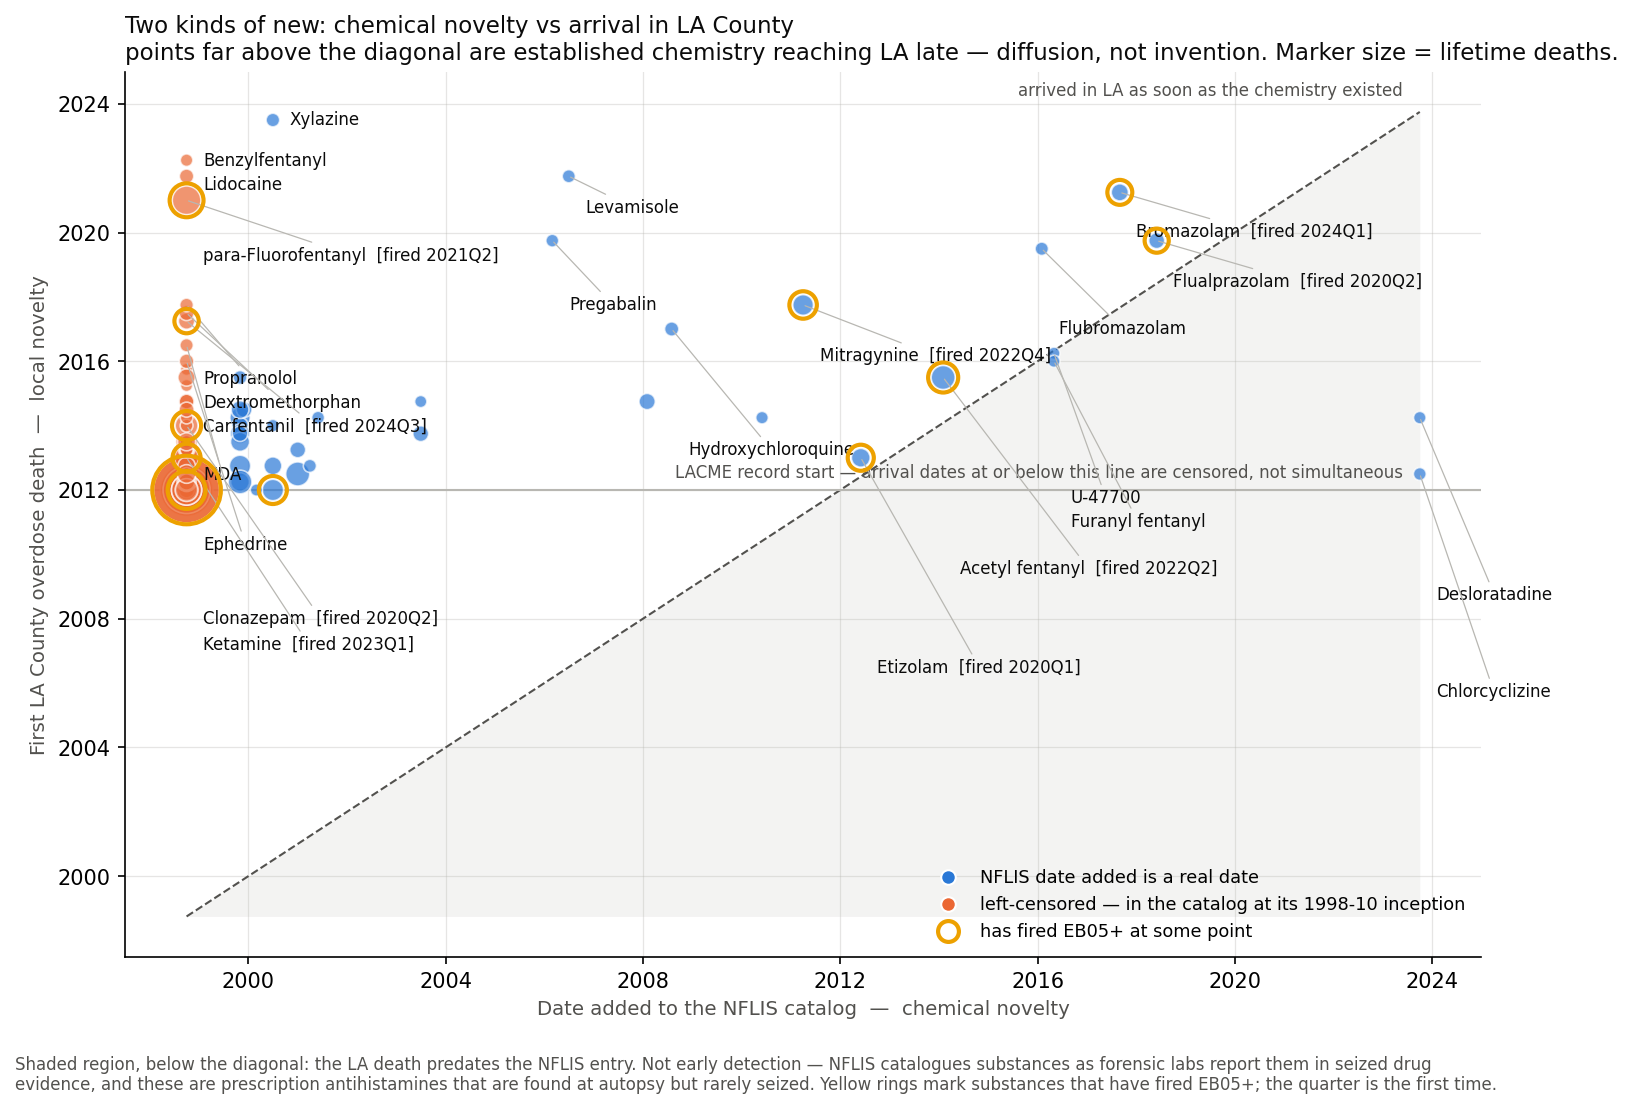
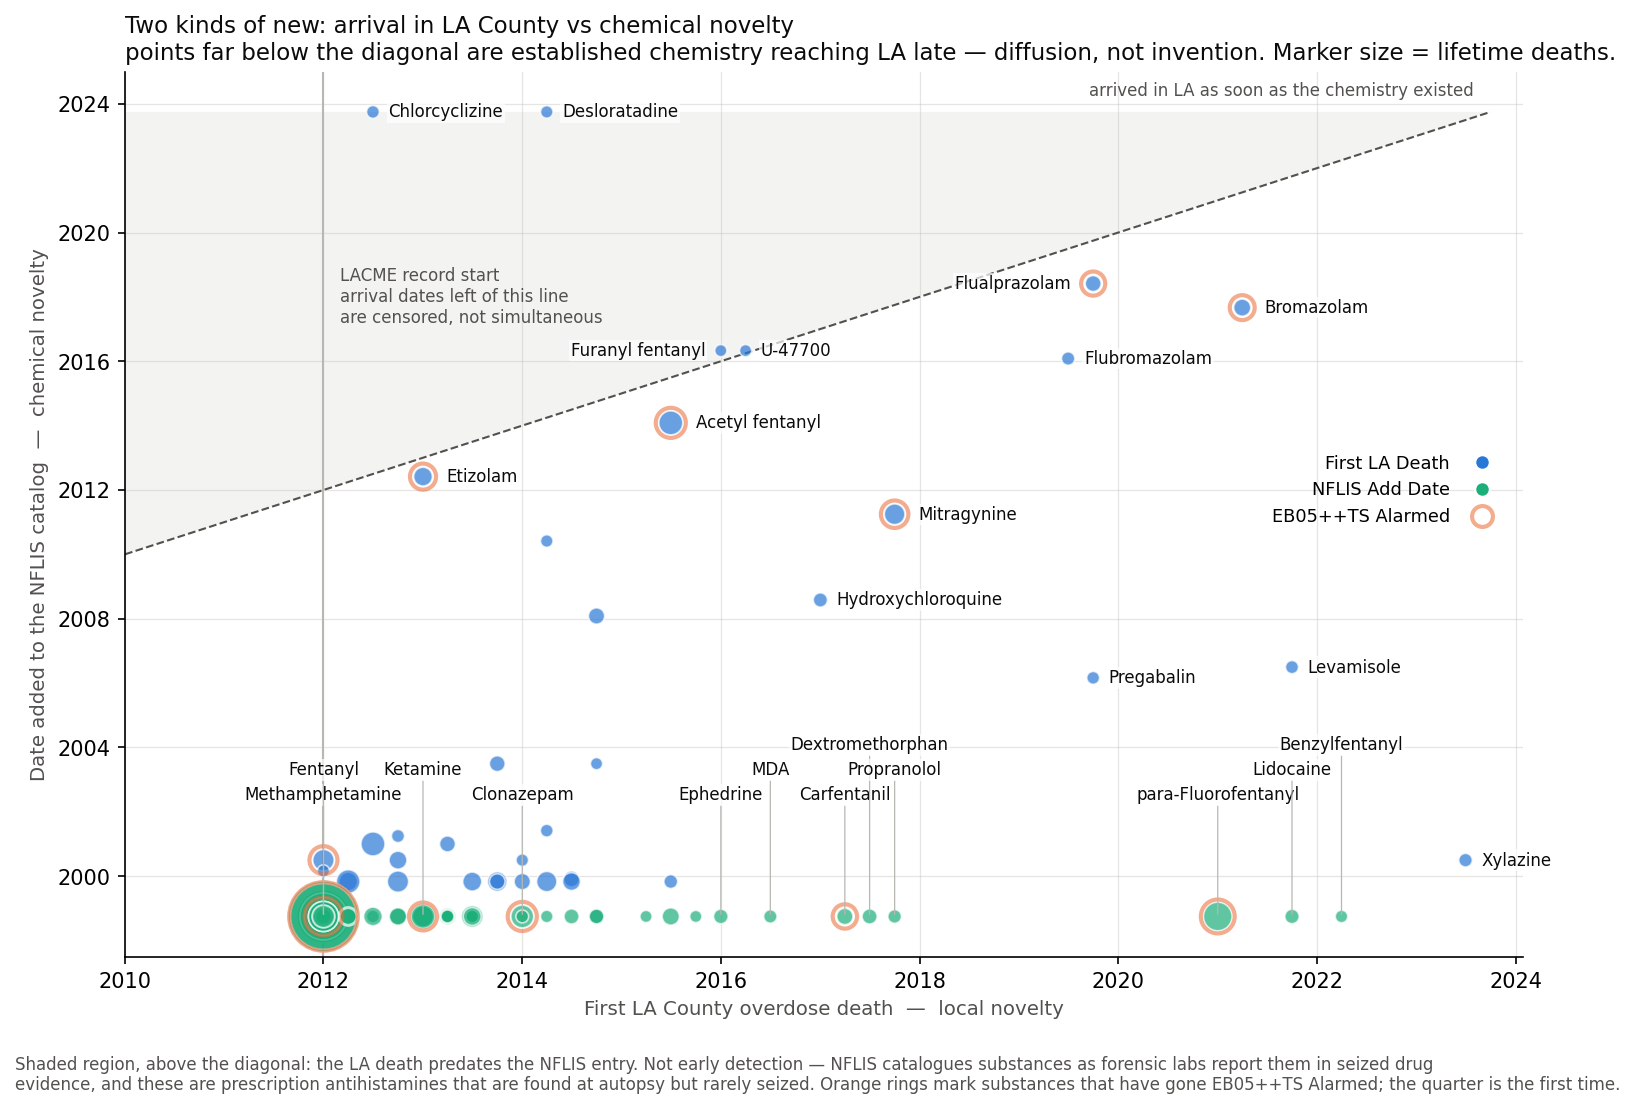
feat(trends): rework the novelty_vs_growth figure -- chronological x-axis, decluttered labels
Swap the axes so LA arrival (first_seen) runs chronologically along x, with
NFLIS chemical-novelty on y. Rebuild the label layout from scratch: aqua
(left-censored) substances all share one floor row, so their labels now
stack straight up with just enough height variance to clear their
neighbors, while the sparser real-date labels use a left/right search that
checks both box overlap and line-of-sight so a leader line can't cut
through an unrelated label. Move the legend inside the plot, concise and
color-corrected (EB05++TS alarm ring back to orange, left-censored fill to
aqua), anchored at a fixed data point instead of fighting tight_layout.

diff --git a/emerging/analysis/trends.py b/emerging/analysis/trends.py
@@ -73,6 +73,7 @@ import numpy as np
 import pandas as pd
 import typer
 from matplotlib.colors import PowerNorm
+from matplotlib.transforms import Bbox
 from scipy.optimize import minimize
 from scipy.special import gammaln
 from scipy.stats import chi2, gamma as gamma_dist
@@ -85,7 +86,7 @@ from emerging.core.concentration import (concentration_weight,
                                          sweep_concentration)
 from emerging.ingest.extract import MENTIONS_PATH, load_cohort
 from emerging.paths import results_dir
-from emerging.viz import BLUE, INK, INK_2, MUTED, ORANGE, SEQ, YELLOW
+from emerging.viz import AQUA, BLUE, INK, INK_2, MUTED, ORANGE, SEQ, YELLOW
 
 app = typer.Typer(add_completion=False)
 
@@ -2132,10 +2133,10 @@ def plot(
     fig, ax = plt.subplots(figsize=(10.5, 7))
     for censored, color, label in [
         (False, BLUE, "NFLIS date added is a real date"),
-        (True, ORANGE, "left-censored — in the catalog at its 1998-10 inception"),
+        (True, AQUA, "left-censored — in the catalog at its 1998-10 inception"),
     ]:
         g = sc[sc["date_added_censored"].fillna(False) == censored]
-        ax.scatter(g["date_added"], g["first_seen"],
+        ax.scatter(g["first_seen"], g["date_added"],
                    s=14 + 9 * np.sqrt(g["n_total"]), c=color, alpha=0.70,
                    edgecolors="white", linewidths=0.8, label=label, zorder=3)
 
@@ -2146,79 +2147,242 @@ def plot(
     ever = set(hist.index) if hist is not None else set()
     fired = sc[sc.index.isin(ever)]
     if len(fired):
-        ax.scatter(fired["date_added"], fired["first_seen"],
+        ax.scatter(fired["first_seen"], fired["date_added"],
                    s=90 + 9 * np.sqrt(fired["n_total"]), facecolors="none",
-                   edgecolors=YELLOW, linewidths=2.0, zorder=4,
+                   edgecolors=ORANGE, linewidths=2.0, alpha=0.55, zorder=4,
                    label="has fired EB05+")
+
+    # Zoom past the dead 1998-2010 stretch (no arrivals are recorded there
+    # anyway) so the crowded post-2012 cluster gets more horizontal room.
+    # Set before any pixel-space measurement below, since transData needs to
+    # reflect the final view for the label de-collision to be accurate.
+    ax.set_xlim(left=mdates.date2num(pd.Timestamp("2010-01-01")))
 
     lo = min(sc["date_added"].min(), sc["first_seen"].min())
     hi = max(sc["date_added"].max(), sc["first_seen"].max())
     ax.plot([lo, hi], [lo, hi], color=INK_2, linewidth=1, linestyle="--",
             zorder=1)
-    ax.annotate("arrived in LA as soon as the chemistry existed",
-                (hi, hi), textcoords="offset points", xytext=(-8, 8),
-                fontsize=8, color=INK_2, ha="right")
+    diag_ann = ax.annotate("arrived in LA as soon as the chemistry existed",
+                           (hi, hi), textcoords="offset points",
+                           xytext=(-8, 8), fontsize=8, color=INK_2, ha="right")
 
-    # Below the diagonal: LA recorded a death before NFLIS catalogued the
+    # Above the diagonal: LA recorded a death before NFLIS catalogued the
     # substance. Shaded and always labelled, because it is the one region a
     # reader is likely to over-interpret — see the region caption.
-    ax.fill_between([lo, hi], [lo, lo], [lo, hi], color=MUTED, alpha=0.16,
+    ax.fill_between([lo, hi], [lo, hi], [hi, hi], color=MUTED, alpha=0.16,
                     linewidth=0, zorder=0)
     below = sc[sc["first_seen"] < sc["date_added"]]
 
     # LACME records start in 2012, so every substance already circulating then
-    # shares a first_seen of 2012Q1 — the y-axis is left-censored too, and that
-    # floor row is an artifact of the extract window, not simultaneous arrival.
+    # shares a first_seen of 2012Q1 — the x-axis is left-censored too, and that
+    # floor column is an artifact of the extract window, not simultaneous
+    # arrival.
     floor = sc["first_seen"].min()
-    ax.axhline(floor, color=MUTED, linewidth=1, zorder=1)
-    ax.annotate("LACME record start — arrival dates at or below this line are "
-                "censored, not simultaneous",
-                (hi, floor), textcoords="offset points", xytext=(-8, 6),
-                fontsize=8, color=INK_2, ha="right")
+    ax.axvline(floor, color=MUTED, linewidth=1, zorder=1)
+    # The 2010 x-axis start leaves too little room left of the floor line for
+    # a caption, so it grows rightward instead, into the shaded above-diagonal
+    # band -- the one part of the plot with almost no circles in it.
+    floor_ann = ax.annotate(
+        "LACME record start\narrival dates left of this line\n"
+        "are censored, not simultaneous",
+        xy=(mdates.date2num(floor), mdates.date2num(pd.Timestamp("2018-01-01"))),
+        textcoords="offset points", xytext=(8, 0),
+        fontsize=8, color=INK_2, ha="left", va="center")
 
-    # Label only substances that arrived after the censoring floor. Many share
-    # the same x (the 1998-10 column), so labels are de-collided greedily in
-    # display space: walk top-down and push each label below the previous one
-    # whenever it would overlap, drawing a leader when it moves far.
-    # Breached substances are labelled only when their arrival is *observed*.
-    # Ten of the 24 sit on the 2012Q1 censoring floor, where the y-coordinate
-    # is an artifact of the extract window; labelling them stacks ten names in
-    # a column that the figure has already told the reader to disregard.
+    handles = [plt.Line2D([], [], marker="o", linestyle="", markersize=7,
+                          markerfacecolor=c, markeredgecolor="white", label=lab)
+               for c, lab in [(BLUE, "First LA Death"),
+                              (AQUA, "NFLIS Add Date")]]
+    if len(fired):
+        handles.append(plt.Line2D(
+            [], [], marker="o", linestyle="", markersize=10,
+            markerfacecolor="none", markeredgecolor=ORANGE, markeredgewidth=2,
+            alpha=0.55, label="EB05++TS Alarmed"))
+    # (2024, 2012) in data space, converted to axes fraction rather than
+    # anchored via transData directly -- a data-space bbox_to_anchor fights
+    # tight_layout's own bbox computation and blows up the saved figure.
+    xlo, xhi = ax.get_xlim()
+    ylo, yhi = ax.get_ylim()
+    lx = mdates.date2num(pd.Timestamp("2024-01-01"))
+    ly = mdates.date2num(pd.Timestamp("2012-01-01"))
+    legend = ax.legend(handles=handles, frameon=False, fontsize=8.5,
+                       loc="center right",
+                       bbox_to_anchor=((lx - xlo) / (xhi - xlo),
+                                       (ly - ylo) / (yhi - ylo)),
+                       bbox_transform=ax.transAxes, markerfirst=False)
+
+    # Label only substances that arrived after the censoring floor, plus the
+    # two dominant killers (for scale) even though neither is novel by either
+    # axis. Breached substances are labelled only when their arrival is
+    # *observed*. Ten of the labelled sit on the 2012Q1 censoring floor, where
+    # the y-coordinate is an artifact of the extract window.
     labelled = sc[(sc["first_seen"] >= pd.Timestamp("2016-01-01"))
                   | sc.index.isin(below.index)
-                  | (sc.index.isin(ever) & (sc["first_seen"] > floor))]
+                  | (sc.index.isin(ever) & (sc["first_seen"] > floor))
+                  | sc.index.isin(["Fentanyl", "Methamphetamine"])]
 
-    def _label(name: str) -> str:
-        if hist is None or name not in hist.index:
-            return name
-        b = hist.loc[name, "first_breach"]
-        return f"{name}  [fired {b.year}Q{b.quarter}]"
-
+    # Many labelled substances share an x (the floor column) or a y (the
+    # 1998-10 chemical-catalog floor), so de-collision has to work in both
+    # directions at once rather than just walking down a single column: try
+    # each label at its natural position, then alternating steps above and
+    # below, and keep the first spot that neither overlaps an already-placed
+    # label nor falls outside the axes -- so a crowded row pushes labels up
+    # into open space instead of stacking off the bottom of the plot.
     fig.canvas.draw()  # transforms must be current before we measure
-    px_to_pt = 72.0 / fig.dpi
-    placed = []
+    renderer = fig.canvas.get_renderer()
+    ax_bbox = ax.get_window_extent(renderer)
+    px_per_pt = fig.dpi / 72.0
+
+    pts = []
     for name, r in labelled.iterrows():
         # transData works in numbers, not Timestamps, on a date axis.
-        xy = (mdates.date2num(r["date_added"]), mdates.date2num(r["first_seen"]))
-        _, py = ax.transData.transform(xy)
-        placed.append((name, xy, py))
-    placed.sort(key=lambda t: -t[2])
+        xy = (mdates.date2num(r["first_seen"]), mdates.date2num(r["date_added"]))
+        px, py = ax.transData.transform(xy)
+        # Clear the marker's own edge, not its center — a fixed offset is
+        # fine for the small dots but gets swallowed by the large
+        # lifetime-death bubbles (and their orange rings, drawn even bigger)
+        # for a name like Carfentanil or Fentanyl.
+        s = 14 + 9 * np.sqrt(r["n_total"])
+        if name in ever:
+            s = max(s, 90 + 9 * np.sqrt(r["n_total"]))
+        clear_pt = np.sqrt(s / np.pi) + 4.0
+        probe = ax.annotate(name, xy, xytext=(clear_pt, 0),
+                            textcoords="offset points", fontsize=8,
+                            color=INK, va="center")
+        fig.canvas.draw()
+        bb = probe.get_window_extent(renderer)
+        probe.remove()
+        pts.append((name, xy, px, py, clear_pt, bb.width + 4, bb.height + 2))
 
-    min_gap_px, last_y = 11.0 / px_to_pt, None
-    for name, xy, py in placed:
-        target_y = py if last_y is None else min(py, last_y - min_gap_px)
-        last_y = target_y
-        dy_pt = (target_y - py) * px_to_pt
+    # The aqua (left-censored) substances all share the identical 1998-10
+    # floor date_added, so their markers form one dense row directly above
+    # a wide-open band. Stack those labels straight up instead of running
+    # them through the diagonal search below: constant x, varying only the
+    # height needed to clear whichever neighbor is already there.
+    censored = set(sc.index[sc["date_added_censored"].fillna(False)])
+    up_pts = sorted((p for p in pts if p[0] in censored), key=lambda t: t[2])
+    pts = [p for p in pts if p[0] not in censored]
+    # Top of the plot first, then left to right for anything sharing a row.
+    pts.sort(key=lambda t: (-t[3], t[2]))
+
+    # Labelled markers are fixed obstacles too, not just other labels --
+    # otherwise a label happily lands on top of a *different* labelled point
+    # a short distance away (Furanyl fentanyl's label sitting on U-47700's
+    # dot, e.g.) instead of using open space a few points further out. Limited
+    # to labelled markers, not all ~200 plotted points: avoiding every small
+    # unlabelled dot in the dense floor cluster forces detours through empty
+    # space that reads worse than the odd close pass would have.
+    marker_boxes = {}
+    for name2, r2 in labelled.iterrows():
+        xy2 = (mdates.date2num(r2["first_seen"]), mdates.date2num(r2["date_added"]))
+        px2, py2 = ax.transData.transform(xy2)
+        s2 = 14 + 9 * np.sqrt(r2["n_total"])
+        if name2 in ever:
+            s2 = max(s2, 90 + 9 * np.sqrt(r2["n_total"]))
+        rad2 = np.sqrt(s2 / np.pi) * px_per_pt
+        marker_boxes[name2] = Bbox.from_bounds(px2 - rad2, py2 - rad2,
+                                               2 * rad2, 2 * rad2)
+
+    def box_for(px, py, clear_pt, w, h, dy, side):
+        cy = py + dy * px_per_pt
+        clear_px = clear_pt * px_per_pt
+        x0 = px + clear_px if side == "right" else px - clear_px - w
+        return Bbox.from_bounds(x0, cy - h / 2, w, h)
+
+    def line_clear(px, py, box, side, obstacles, own_box, start_clear_px):
+        # The connecting line from marker to text must not cut through a
+        # label placed earlier -- two text boxes can be individually clear
+        # of each other while the line reaching a *third*, taller label still
+        # pierces straight through one of them (a short label like "MDA"
+        # sitting right in the x-span of "Ephedrine"'s text, e.g.).
+        anchor_x = box.x0 if side == "right" else box.x1
+        anchor_y = box.y0 + box.height / 2
+        length = np.hypot(anchor_x - px, anchor_y - py)
+        if length <= start_clear_px:
+            return True
+        # Start past this marker's own clearance radius, not at its center --
+        # markers can sit concentrically (Fentanyl and Methamphetamine share
+        # one point), and every line leaving a shared center necessarily
+        # starts inside a sibling's own circle. That's fine; it's only a real
+        # block once the line is out in open space and still hits something.
+        t0 = start_clear_px / length
+        for t in np.linspace(t0, 1.0, 6):
+            pt = (px + t * (anchor_x - px), py + t * (anchor_y - py))
+            for b in obstacles:
+                if b is own_box:
+                    continue
+                if b.x0 <= pt[0] <= b.x1 and b.y0 <= pt[1] <= b.y1:
+                    return False
+        return True
+
+    step_pt = 9.0
+    placed_boxes = [diag_ann.get_window_extent(renderer),
+                    floor_ann.get_window_extent(renderer),
+                    legend.get_window_extent(renderer)] + list(marker_boxes.values())
+
+    # Straight up, 3/4" (54pt) above the marker, centered on it. Each label
+    # only climbs past that base height if a narrower gap would collide with
+    # a neighbor already placed -- most stay at the same height, the few in
+    # a tight patch of the row step up just enough to clear it.
+    base_up_pt, step_up_pt = 54.0, 12.0
+    for name, xy, px, py, clear_pt, w, h in up_pts:
+        offset_pt = base_up_pt
+        while True:
+            offset_px = offset_pt * px_per_pt
+            box = Bbox.from_bounds(px - w / 2, py + offset_px, w, h)
+            if box.y1 <= ax_bbox.y1 and not any(box.overlaps(b) for b in placed_boxes):
+                break
+            offset_pt += step_up_pt
+        placed_boxes.append(box)
         ax.annotate(
-            _label(name), xy, xytext=(8, dy_pt), textcoords="offset points",
-            fontsize=8, color=INK, va="center",
-            arrowprops=(dict(arrowstyle="-", color=MUTED, linewidth=0.6,
-                             shrinkA=0, shrinkB=1) if dy_pt < -5 else None),
+            name, xy, xytext=(0, offset_pt), textcoords="offset points",
+            fontsize=8, color=INK, ha="center", va="bottom", zorder=6,
+            bbox=dict(boxstyle="square,pad=0.1", facecolor="white",
+                     edgecolor="none", alpha=0.7),
+            arrowprops=dict(arrowstyle="-", color=MUTED, linewidth=0.6,
+                            shrinkA=0, shrinkB=1),
         )
 
-    ax.set_xlabel("Date added to the NFLIS catalog  —  chemical novelty",
+    for name, xy, px, py, clear_pt, w, h in pts:
+        own_box = marker_boxes.get(name)
+        best = None  # (side, dy, box) -- smallest |dy| wins, right breaks ties
+        fallback = None
+        for side in ("right", "left"):
+            for k in range(16):
+                for dy in ([0.0] if k == 0 else [step_pt * k, -step_pt * k]):
+                    box = box_for(px, py, clear_pt, w, h, dy, side)
+                    if box.y0 < ax_bbox.y0 or box.y1 > ax_bbox.y1:
+                        continue
+                    if fallback is None:
+                        fallback = (side, dy, box)
+                    if any(box.overlaps(b) for b in placed_boxes):
+                        continue
+                    if not line_clear(px, py, box, side, placed_boxes, own_box,
+                                      clear_pt * px_per_pt):
+                        continue
+                    if best is None or abs(dy) < abs(best[1]):
+                        best = (side, dy, box)
+                    break
+                if best is not None and abs(best[1]) == (0.0 if k == 0 else step_pt * k):
+                    break
+            if best is not None and best[1] == 0.0:
+                break  # can't beat a clean, undisplaced placement
+        side, chosen_dy, chosen_box = best if best is not None else fallback
+        placed_boxes.append(chosen_box)
+        dx0 = clear_pt if side == "right" else -clear_pt
+        ax.annotate(
+            name, xy, xytext=(dx0, chosen_dy), textcoords="offset points",
+            fontsize=8, color=INK, va="center",
+            ha=("left" if side == "right" else "right"), zorder=6,
+            bbox=dict(boxstyle="square,pad=0.1", facecolor="white",
+                     edgecolor="none", alpha=0.7),
+            arrowprops=(dict(arrowstyle="-", color=MUTED, linewidth=0.6,
+                             shrinkA=0, shrinkB=1) if abs(chosen_dy) > 4 else None),
+        )
+
+    ax.set_xlabel("First LA County overdose death  —  local novelty",
                   fontsize=9.5, color=INK_2)
-    ax.set_ylabel("First LA County overdose death  —  local novelty",
+    ax.set_ylabel("Date added to the NFLIS catalog  —  chemical novelty",
                   fontsize=9.5, color=INK_2)
     # Region caption lives in the figure margin, not inside the axes. Anchored
     # in the shaded region it sat on top of the very points it describes, and
@@ -2226,30 +2390,19 @@ def plot(
     # interior has no free space at this label density.
     fig.text(
         0.005, -0.012,
-        "Shaded region, below the diagonal: the LA death predates the NFLIS "
+        "Shaded region, above the diagonal: the LA death predates the NFLIS "
         "entry. Not early detection — NFLIS catalogues substances as forensic "
         "labs report them in seized drug\nevidence, and these are prescription "
         "antihistamines that are found at autopsy but rarely seized. "
-        "Yellow rings mark substances that have fired EB05+; "
+        "Orange rings mark substances that have gone EB05++TS Alarmed; "
         "the quarter is the first time.",
         fontsize=8, color=INK_2, ha="left", va="top")
 
     ax.set_title(
-        "Two kinds of new: chemical novelty vs arrival in LA County\n"
-        "points far above the diagonal are established chemistry reaching LA "
+        "Two kinds of new: arrival in LA County vs chemical novelty\n"
+        "points far below the diagonal are established chemistry reaching LA "
         "late — diffusion, not invention. Marker size = lifetime deaths.",
         fontsize=11, color=INK, loc="left")
-    handles = [plt.Line2D([], [], marker="o", linestyle="", markersize=7,
-                          markerfacecolor=c, markeredgecolor="white", label=lab)
-               for c, lab in [(BLUE, "NFLIS date added is a real date"),
-                              (ORANGE, "left-censored — in the catalog at its "
-                                       "1998-10 inception")]]
-    if len(fired):
-        handles.append(plt.Line2D(
-            [], [], marker="o", linestyle="", markersize=10,
-            markerfacecolor="none", markeredgecolor=YELLOW, markeredgewidth=2,
-            label="has fired EB05+ at some point"))
-    ax.legend(handles=handles, frameon=False, fontsize=8.5, loc="lower right")
     ax.grid(color=MUTED, alpha=0.35, linewidth=0.6)
     ax.set_axisbelow(True)
     for side in ("top", "right"):
